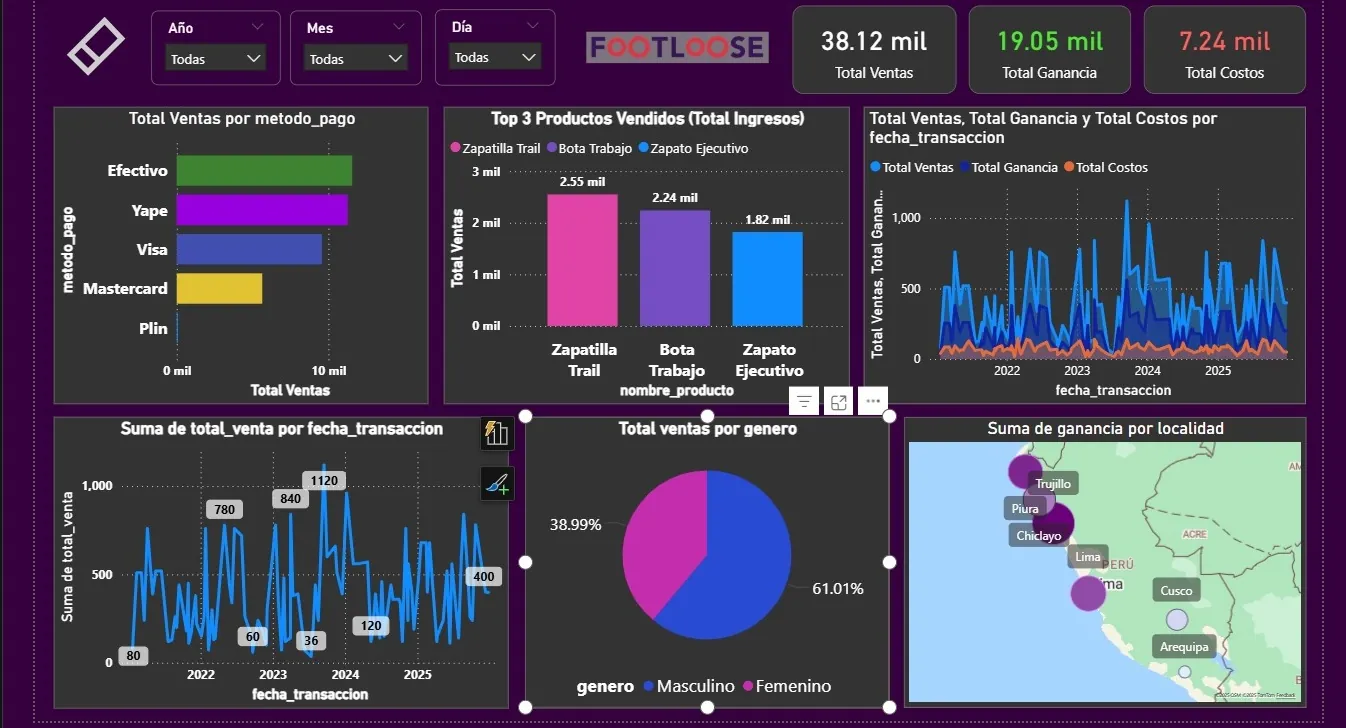
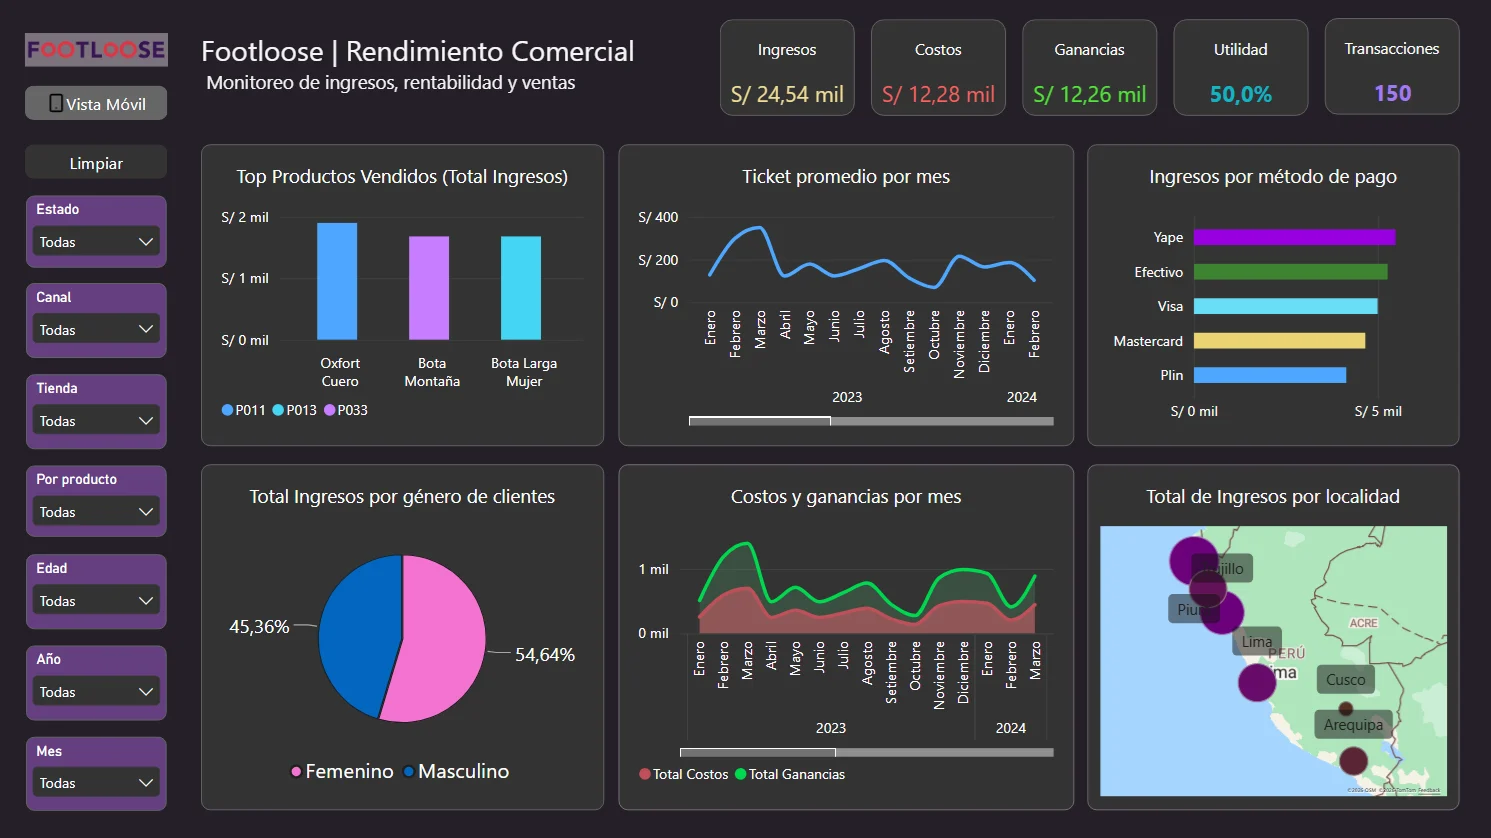
chore(data): sync footloose dashboard project with repository

diff --git a/src/data/projects.ts b/src/data/projects.ts
@@ -169,38 +169,50 @@ export const projects: readonly Project[] = [
   {
     slug: "footloose-dashboard",
     title: {
-      en: "Footloose Sales Dashboard",
-      es: "Footloose Dashboard de Ventas",
+      en: "Footloose: Sales Dashboard",
+      es: "Footloose: Dashboard de Ventas",
     },
     summary: {
-      en: "Sales analytics dashboard with dynamic charts, filters and exportable reports.",
-      es: "Panel de análisis de ventas con gráficos dinámicos, filtros e informes exportables.",
+      en: "End-to-end sales analytics project: a Databricks medallion pipeline feeding a star-schema Power BI dashboard.",
+      es: "Proyecto end-to-end de analítica de ventas: pipeline medallion en Databricks que alimenta un dashboard en Power BI con modelo estrella.",
     },
     description: {
-      en: "An end-to-end sales analysis for a retail dataset: cleaning and aggregation in Python with Pandas, exploratory queries in SQL, and a Tableau dashboard that lets the business team slice revenue by period, category and channel before exporting the results.",
-      es: "Un análisis de ventas de extremo a extremo para un conjunto de datos de retail: limpieza y agregación en Python con Pandas, consultas exploratorias en SQL y un dashboard en Tableau que permite al equipo de negocio segmentar ingresos por período, categoría y canal antes de exportar los resultados.",
+      en: "A retail sales case study covering the full analytics stack. Raw CSVs and JSON transactions are ingested into Databricks with Spark Structured Streaming and Auto Loader, then refined through a bronze → silver → gold architecture using PySpark and Delta Lake, with idempotent MERGE upserts on each layer. The gold fact table feeds a Power BI model in import mode built as a star schema with a dedicated DAX calendar, explicit measures and a custom dark theme across desktop and mobile views.",
+      es: "Caso de estudio de ventas retail que recorre todo el stack analítico. Los CSV y las transacciones JSON crudas se ingieren en Databricks con Spark Structured Streaming y Auto Loader, y se refinan mediante una arquitectura bronze → silver → gold con PySpark y Delta Lake, usando upserts idempotentes con MERGE en cada capa. La tabla de hechos gold alimenta un modelo de Power BI en modo importación con esquema estrella, tabla de fechas calculada en DAX, medidas explícitas y tema oscuro personalizado para las vistas de escritorio y móvil.",
     },
     highlights: {
       en: [
-        "ETL pipeline in Python and Pandas for cleaning and aggregating sales data",
-        "Interactive Tableau dashboard with period, category and channel filters",
-        "Exportable reports that support recurring business decisions",
+        "Medallion pipeline in Databricks (bronze, silver, gold) with Spark Structured Streaming and Auto Loader checkpoints",
+        "Idempotent Delta Lake writes: MERGE by business key with foreachBatch so retries never duplicate rows",
+        "Power BI star schema in import mode with M:1 relationships and a dedicated DAX calendar table",
+        "Two-page dashboard (desktop and mobile) with KPI cards, bubble map, cross-filtering and a clear-filters action",
       ],
       es: [
-        "Pipeline ETL en Python y Pandas para limpiar y agregar los datos de ventas",
-        "Dashboard interactivo en Tableau con filtros por período, categoría y canal",
-        "Informes exportables que apoyan decisiones de negocio recurrentes",
+        "Pipeline medallion en Databricks (bronze, silver, gold) con Spark Structured Streaming y checkpoints de Auto Loader",
+        "Escrituras idempotentes en Delta Lake: MERGE por clave de negocio con foreachBatch para que los reintentos no dupliquen filas",
+        "Esquema estrella en Power BI en modo importación con relaciones M:1 y tabla de fechas dedicada en DAX",
+        "Dashboard de dos páginas (escritorio y móvil) con tarjetas KPI, mapa de burbujas, filtrado cruzado y botón para limpiar filtros",
       ],
     },
     role: {
-      en: "Data Analyst",
-      es: "Analista de Datos",
+      en: "Data Analyst & BI Developer",
+      es: "Analista de Datos y Desarrollador BI",
     },
     year: 2025,
     image: "/imagenes/projects/footloose.webp",
-    tags: ["Python", "Pandas", "Tableau", "SQL"],
+    tags: [
+      "Power BI",
+      "Databricks",
+      "PySpark",
+      "Delta Lake",
+      "DAX",
+      "Spark Streaming",
+      "ELT",
+    ],
     category: "data",
-    githubUrl: "https://github.com/LuisRivera369/sales-dashboard",
+    githubUrl: "https://github.com/LuisRivera369/footloose-sales-dashboard",
+    liveUrl:
+      "https://app.powerbi.com/view?r=eyJrIjoiYjliZjc4ODYtNWQ4Ni00OTFiLTk2MTQtZTE4MGRhYTZiNTUzIiwidCI6ImM0YTY2YzM0LTJiYjctNDUxZi04YmUxLWIyYzI2YTQzMDE1OCIsImMiOjR9",
   },
   {
     slug: "portfolio-website",
@@ -272,7 +284,10 @@ export function getProjectSlugs(): string[] {
 }
 
 /** Other projects in the same category, excluding the current one. */
-export function getRelatedProjects(slug: string, limit = 3): readonly Project[] {
+export function getRelatedProjects(
+  slug: string,
+  limit = 3,
+): readonly Project[] {
   const current = getProjectBySlug(slug);
   if (!current) return [];
 
